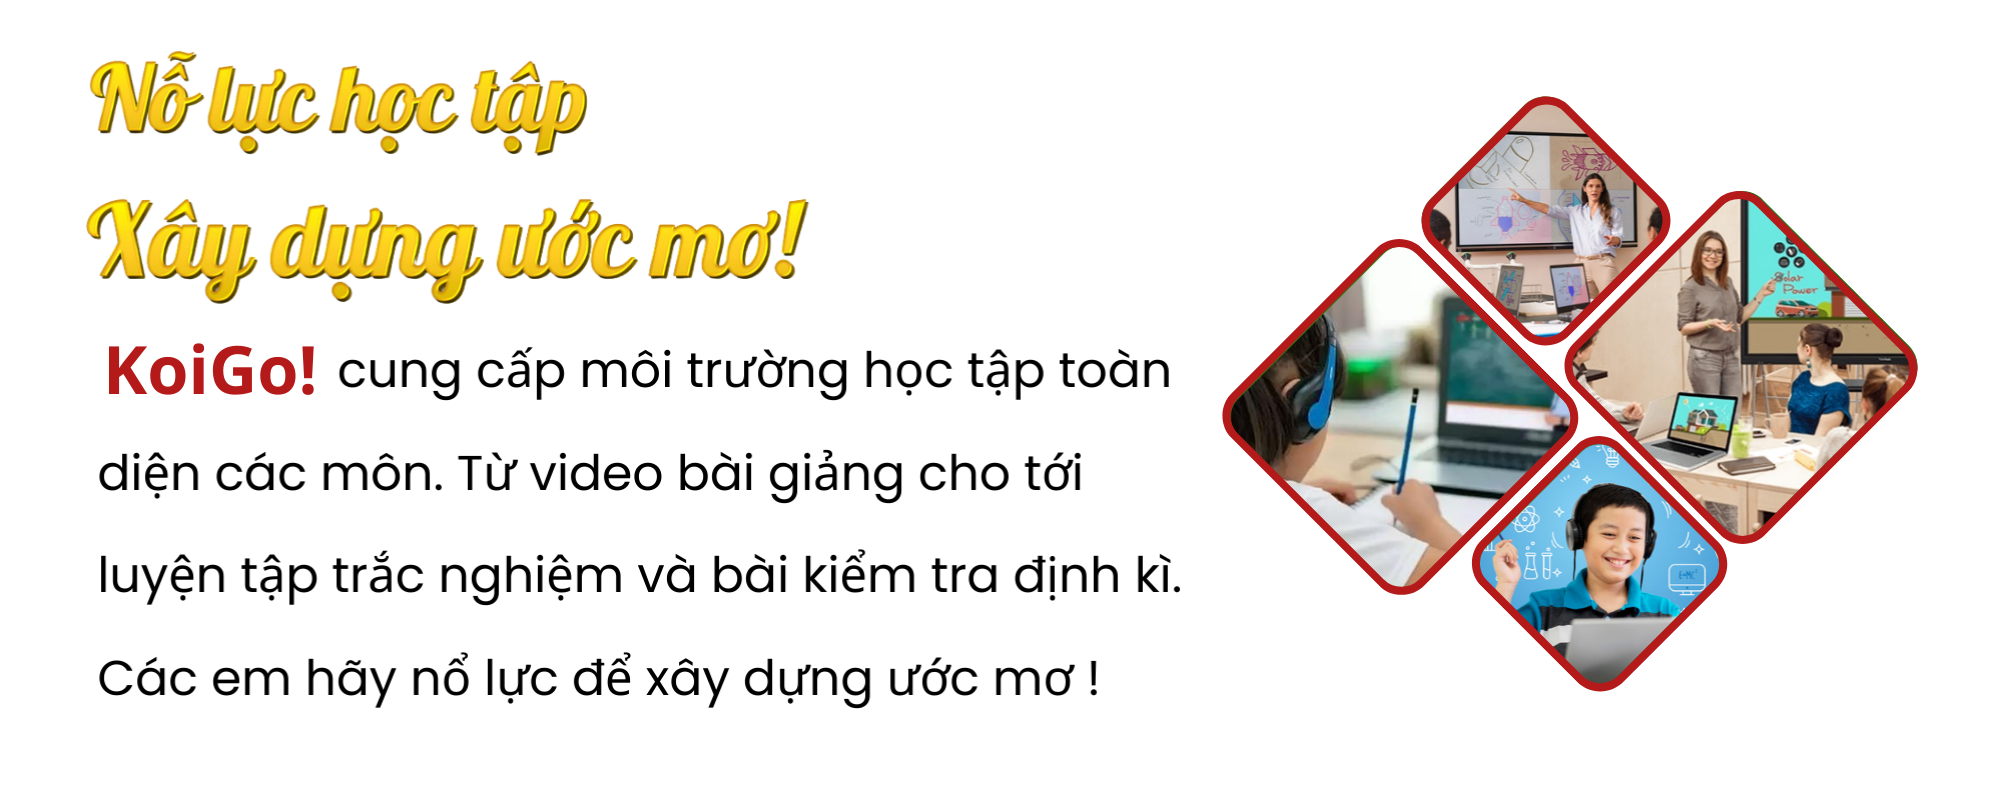
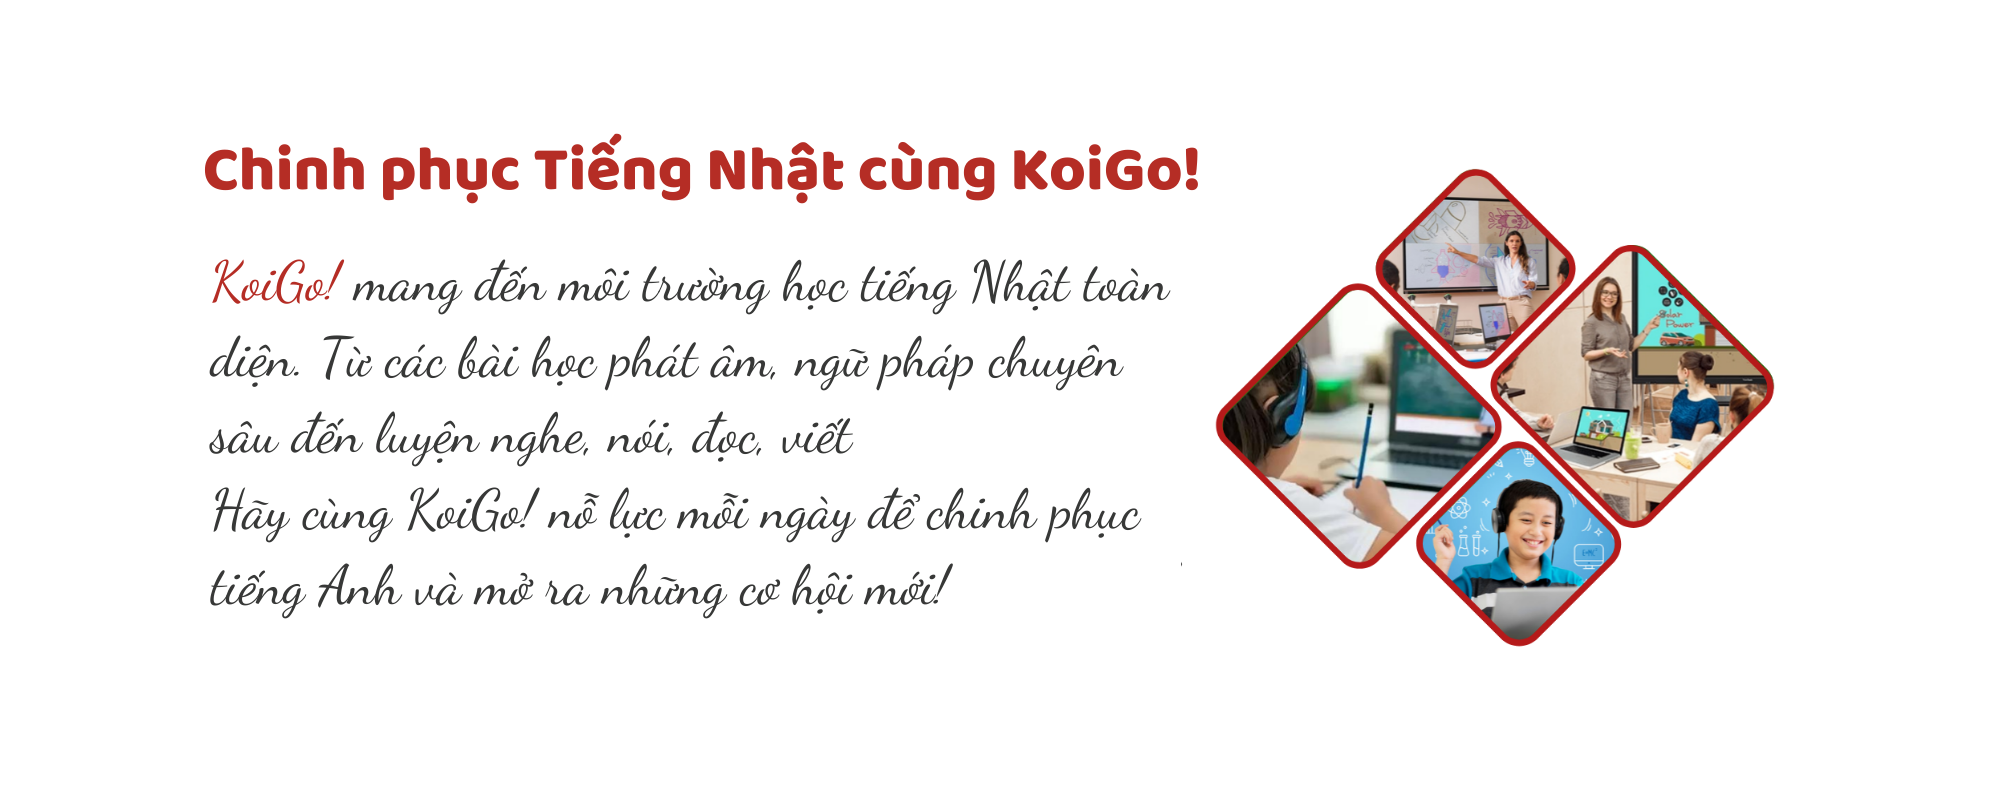
Duy

diff --git a/css/gameTieuHoc.min.css b/css/gameTieuHoc.min.css
@@ -11021,13 +11021,16 @@ body {
         margin-bottom: 2rem;
         display: flex;
         justify-content: space-between;
+        flex-wrap: wrap;
         padding: 1rem;
     }
 
         .block-body #section-class .class-item {
             display: block;
             background-color: #fff;
-            width: calc(20% - 1rem);
+            height: 12rem;
+            width: calc(50% - 1rem);
+            margin-bottom: 1rem;
             padding: 1rem .5rem .75rem .5rem;
             border-radius: .75rem;
             box-shadow: rgba(50,50,93,.25) 0 50px 100px -20px,rgba(0,0,0,.3) 0 30px 60px -30px,rgba(10,37,64,.35) 0 -2px 6px 0 inset;
